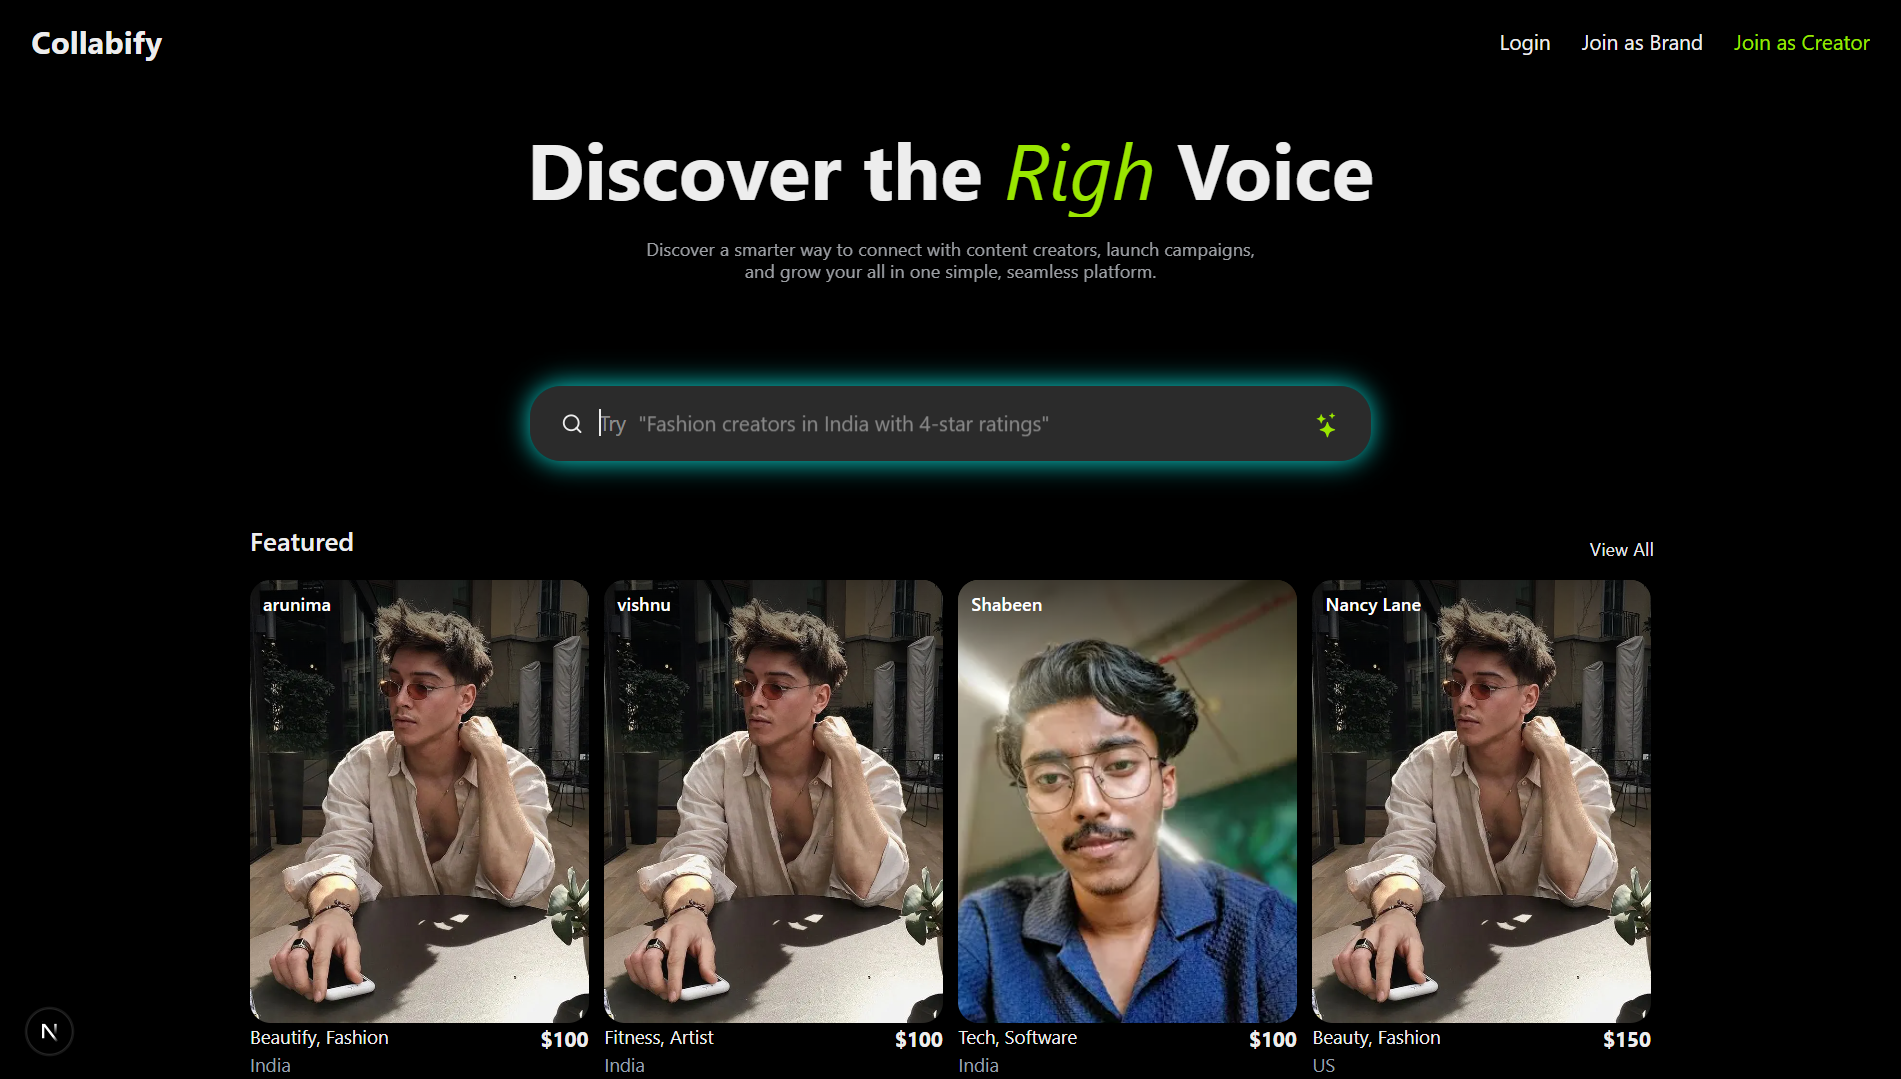
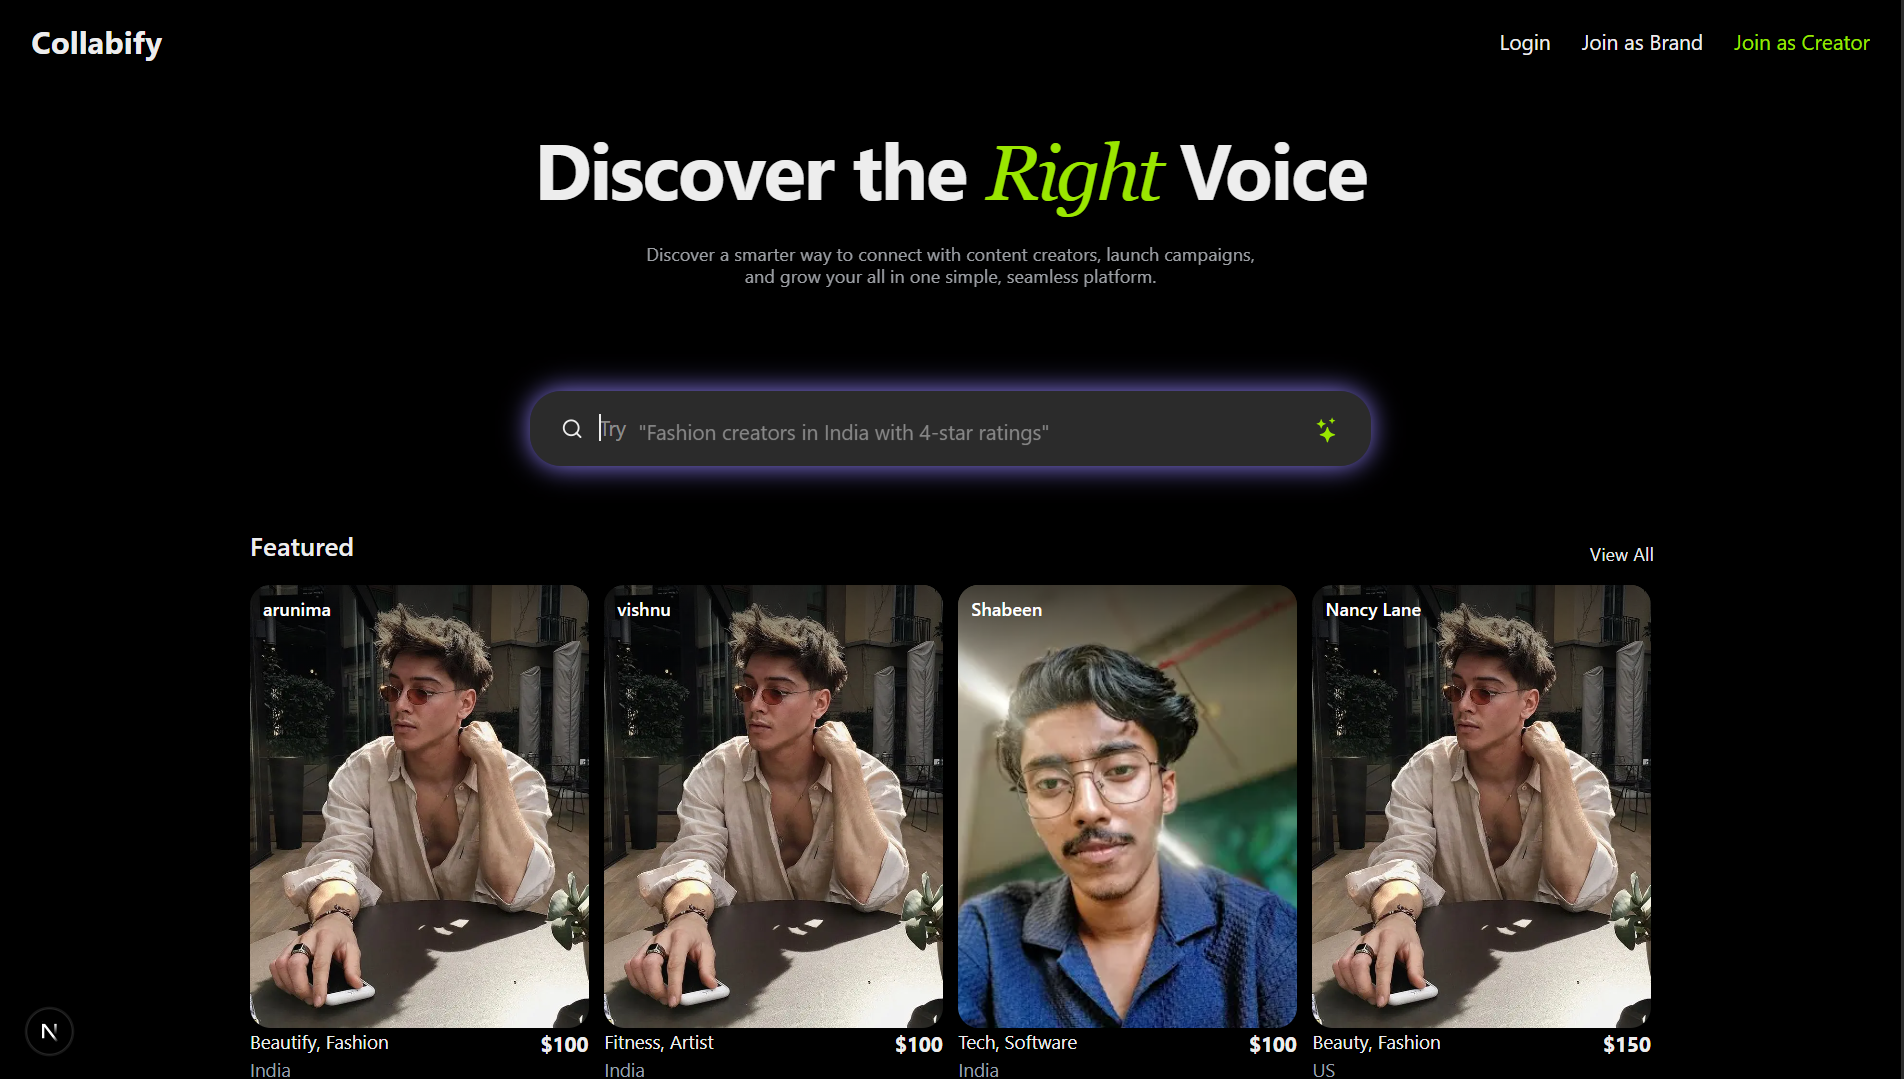
refine: ui

diff --git a/components/hero/Hero.tsx b/components/hero/Hero.tsx
@@ -1,6 +1,10 @@
 import { HiOutlineChevronDoubleDown } from "react-icons/hi2";
 import MajorCon from "./MajorCon";
 import Link from "next/link";
+import { SiLeetcode } from "react-icons/si";
+import { FiLinkedin } from "react-icons/fi";
+import { FiGithub } from "react-icons/fi";
+import { FiMail } from "react-icons/fi";
 
 const Hero = () => {
     return (
@@ -17,6 +21,10 @@ const Hero = () => {
                 />
             </p>
             <div className="absolute hidden md:block md:top-auto md:bottom-[5em] z-41 md:right-[3em] w-[35em] md:text-center text-left text-[#FFC7C7] text-[0.6rem] md:text-xs scroll parallax-des will-change-transform">
+                <div className="notable py-2 px-5 bg-[#8a8a8a4e] w-fit mx-auto mb-4 flex gap-3 items-center rounded-2xl backdrop-blur-sm">
+                    <span className="w-2 h-2 bg-green-300 animate-ping rounded-full"></span>{" "}
+                    Open to work
+                </div>
                 <p className="notable leading-normal">
                     I craft fast, scalable, and user friendly web applications
                     with modern{" "}
@@ -30,14 +38,14 @@ const Hero = () => {
                         Node.js.
                     </span>
                 </p>
-                <div className="flex gap-4 justify-center mt-4 text-[0.9rem]">
+                <div className="flex gap-4 justify-evenly items-center mt-4 text-lg">
                     <Link href="https://www.linkedin.com/in/shabeen-sharih/">
-                        LinkedIn
+                        <FiLinkedin />
                     </Link>{" "}
-                    /<Link href="https://github.com/shabinx30">Github</Link> /
-                    <Link href="mailto:shabeensharih@gmail.com">Email</Link> /
+                    •<Link href="https://github.com/shabinx30"><FiGithub /></Link> •
+                    <Link href="mailto:shabeensharih@gmail.com"><FiMail /></Link> •
                     <Link href="https://leetcode.com/u/shabeensharih/">
-                        LeetCode
+                        <SiLeetcode />
                     </Link>
                 </div>
             </div>

diff --git a/components/About.tsx b/components/About.tsx
@@ -1,8 +1,14 @@
 import Link from "next/link";
+import { FiGithub, FiLinkedin, FiMail } from "react-icons/fi";
+import { SiLeetcode } from "react-icons/si";
 
 const About = () => {
     return (
         <div className="md:hidden text-[#FFC7C7] text-[0.6rem] text-center mt-16 px-[5%]">
+            <div className="notable py-2 px-5 bg-[#8a8a8a4e] w-fit mx-auto mb-4 flex gap-3 items-center rounded-2xl backdrop-blur-sm">
+                <span className="w-2 h-2 bg-green-300 animate-ping rounded-full"></span>{" "}
+                Open to work
+            </div>
             <p className="notable leading-normal">
                 I craft fast, scalable, and user friendly web applications with
                 modern{" "}
@@ -14,14 +20,21 @@ const About = () => {
                 the frontend with robust server side solutions using{" "}
                 <span className="text-[#ff7e7e] font-extrabold">Node.js.</span>
             </p>
-            <div className="flex gap-4 justify-center mt-8 text-[0.9rem]">
+            <div className="flex gap-4 items-center justify-evenly mt-8 text-lg">
                 <Link href="https://www.linkedin.com/in/shabeen-sharih/">
-                    LinkedIn
+                    <FiLinkedin />
                 </Link>{" "}
-                /<Link href="https://github.com/shabinx30">Github</Link> /
-                <Link href="mailto:shabeensharih@gmail.com">Email</Link> /
+                •
+                <Link href="https://github.com/shabinx30">
+                    <FiGithub />
+                </Link>{" "}
+                •
+                <Link href="mailto:shabeensharih@gmail.com">
+                    <FiMail />
+                </Link>{" "}
+                •
                 <Link href="https://leetcode.com/u/shabeensharih/">
-                    LeetCode
+                    <SiLeetcode />
                 </Link>
             </div>
         </div>

diff --git a/const/skillData.ts b/const/skillData.ts
@@ -8,7 +8,9 @@ export const skills = [
             "Next.js",
             "Tailwind",
             "Bootstrap",
+            "Shadcn",
             "Materialui",
+            "OpenCV"
         ],
     },
     {
@@ -17,7 +19,7 @@ export const skills = [
     },
     {
         stack: "Tools & Languages",
-        techs: ["Git", "Github", "Figma", "Javascript", "Typescript", "VScode", "Postman"],
+        techs: ["Git", "Github", "Figma", "VScode", "Postman", "Javascript", "Typescript"],
     },
     { stack: "Cloud & Deployment", techs: ["AWS", "Nginx", "Vercel"] },
 ];

diff --git a/components/Footer.tsx b/components/Footer.tsx
@@ -60,7 +60,7 @@ const Footer = () => {
             <hr className="project-line w-full h-[2px] rounded-full border-none bg-[#532f2f]" />
             <div className="my-4 flex text-[#a18282] text-xs md:text-sm justify-between">
                 <p>All rights reserved &copy; 2025 shabeensharih.online</p>
-                <Link className="text-white" href="/404">
+                <Link href="/404">
                     404
                 </Link>
             </div>

diff --git a/components/Skill.tsx b/components/Skill.tsx
@@ -41,7 +41,7 @@ const Skill = () => {
                         target="_blank"
                         className="bg-[#FF7C7C] hover:bg-[#FFC7C7] duration-200 text-black px-5 pt-2.5 pb-3.5 notable text-sm cursor-pointer rounded-3xl"
                     >
-                        My resume
+                        Resume
                     </Link>
                 </div>
             </div>
